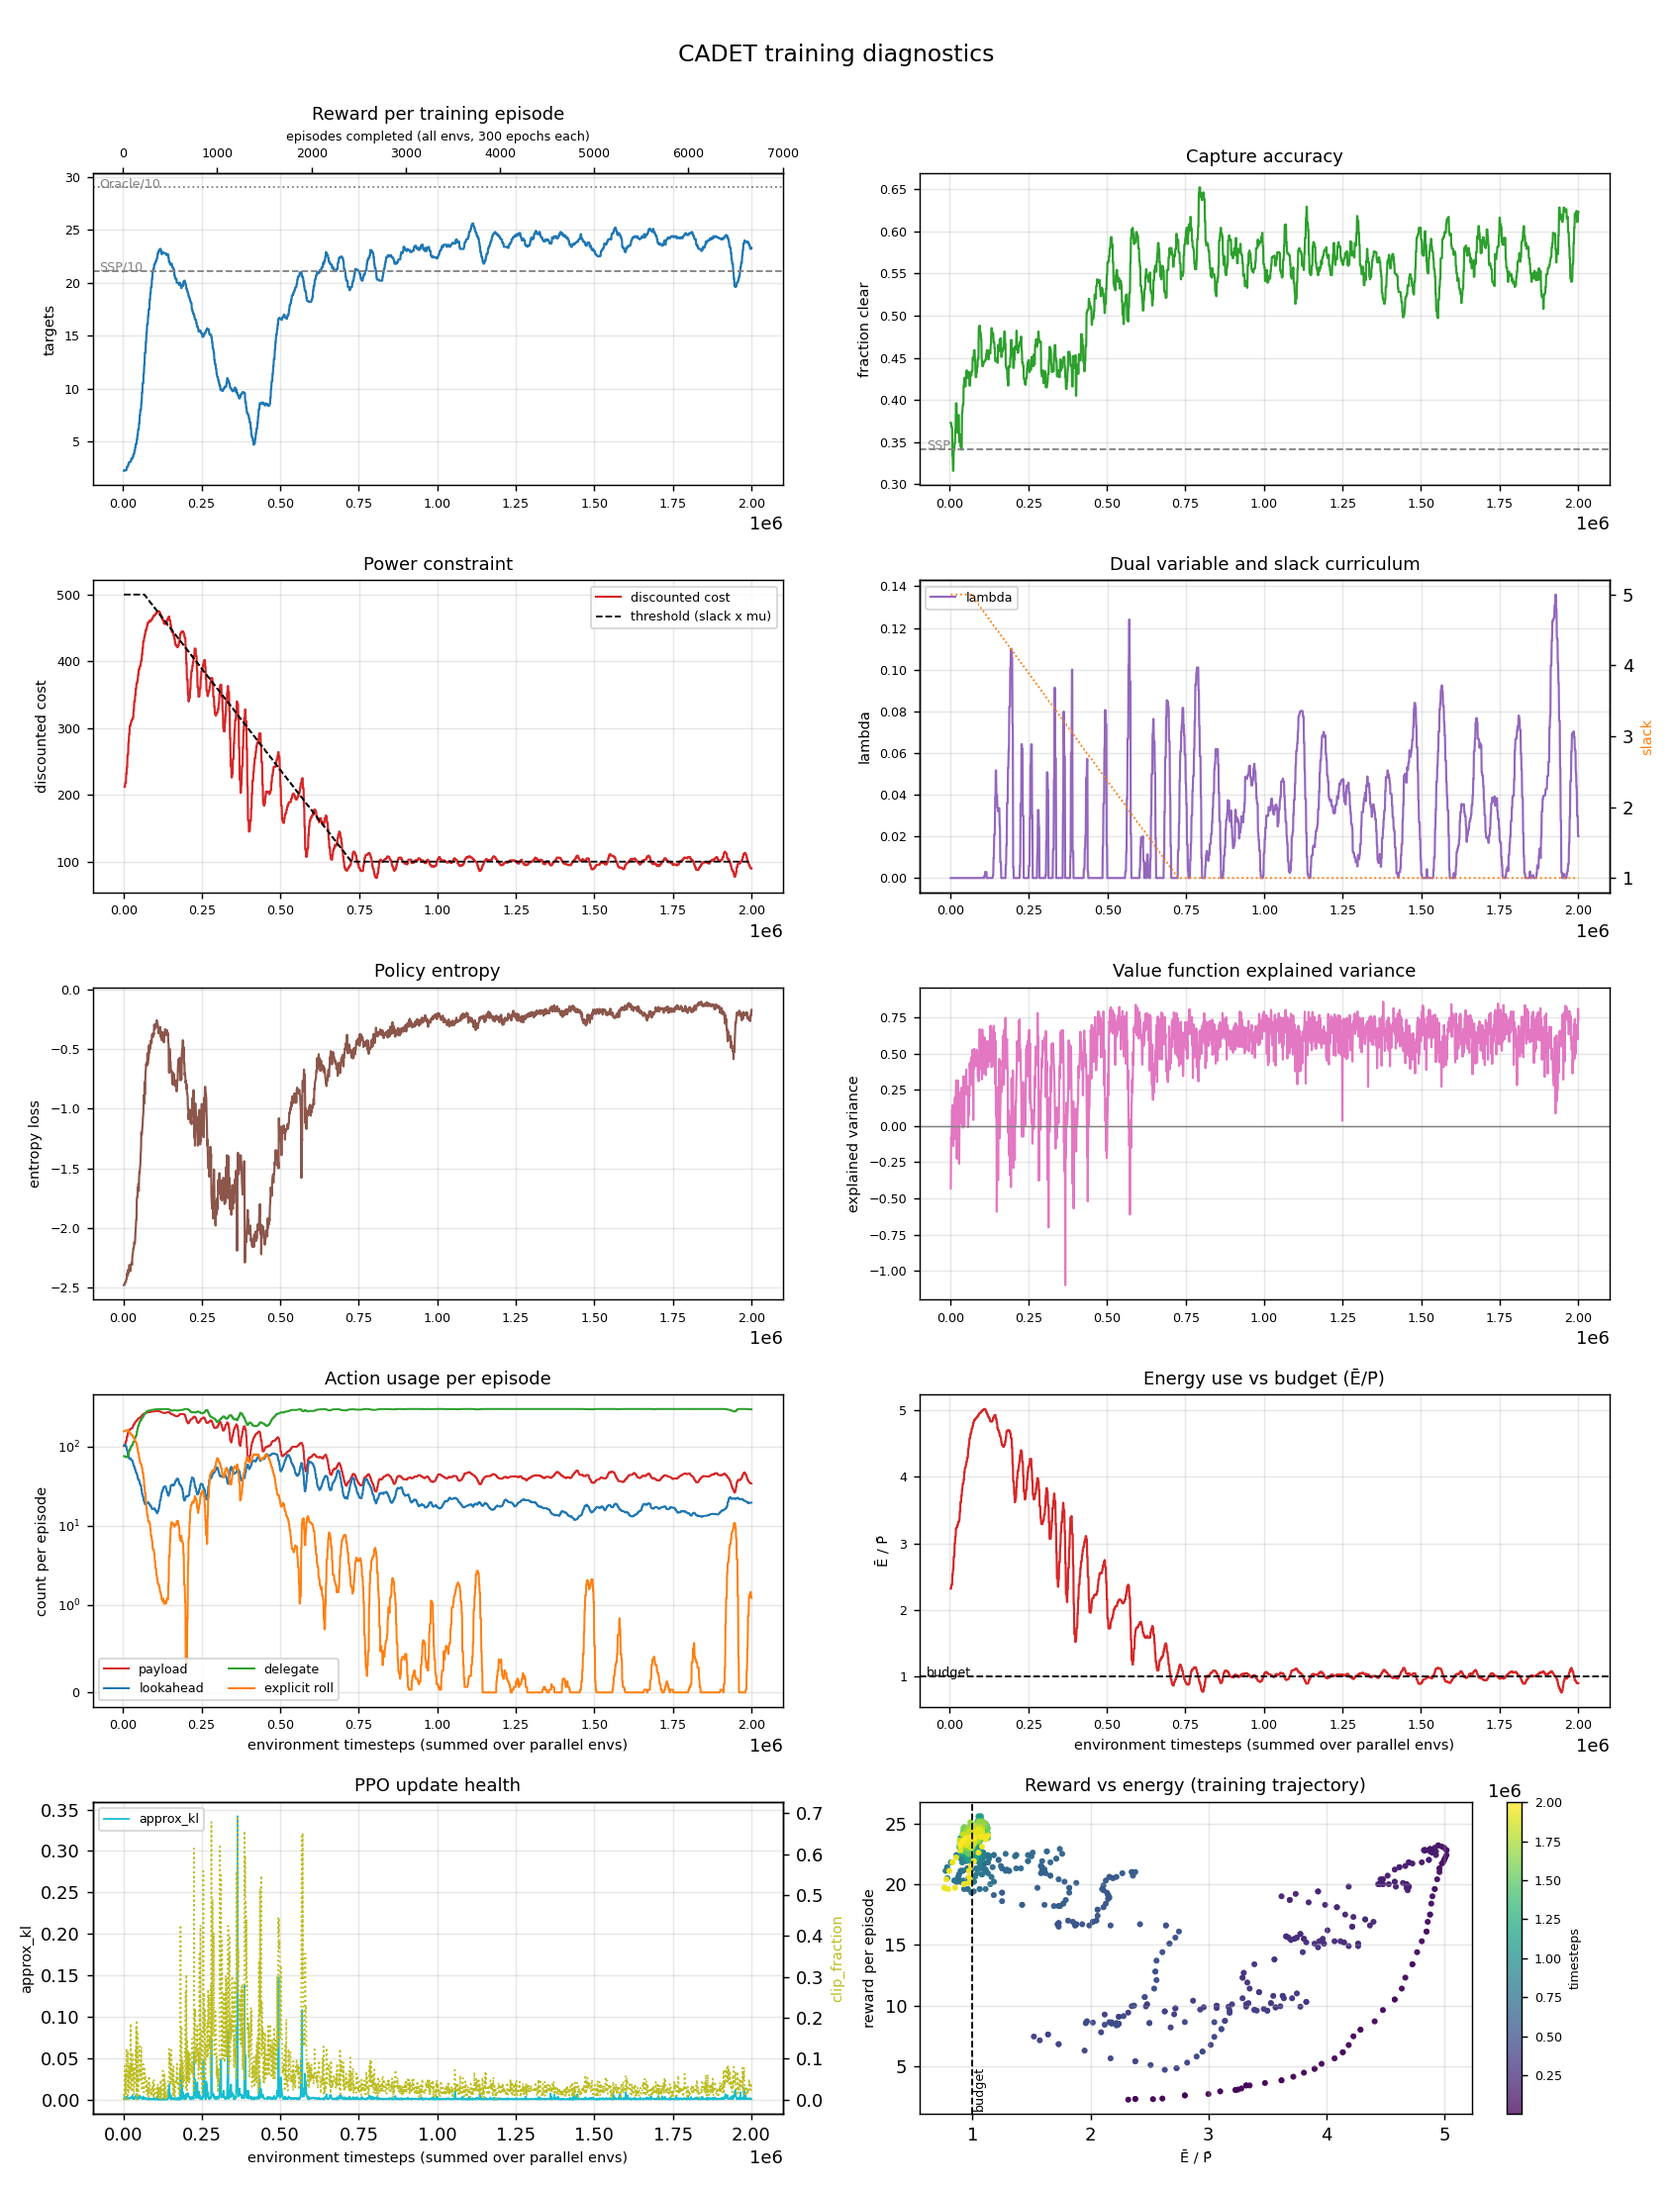
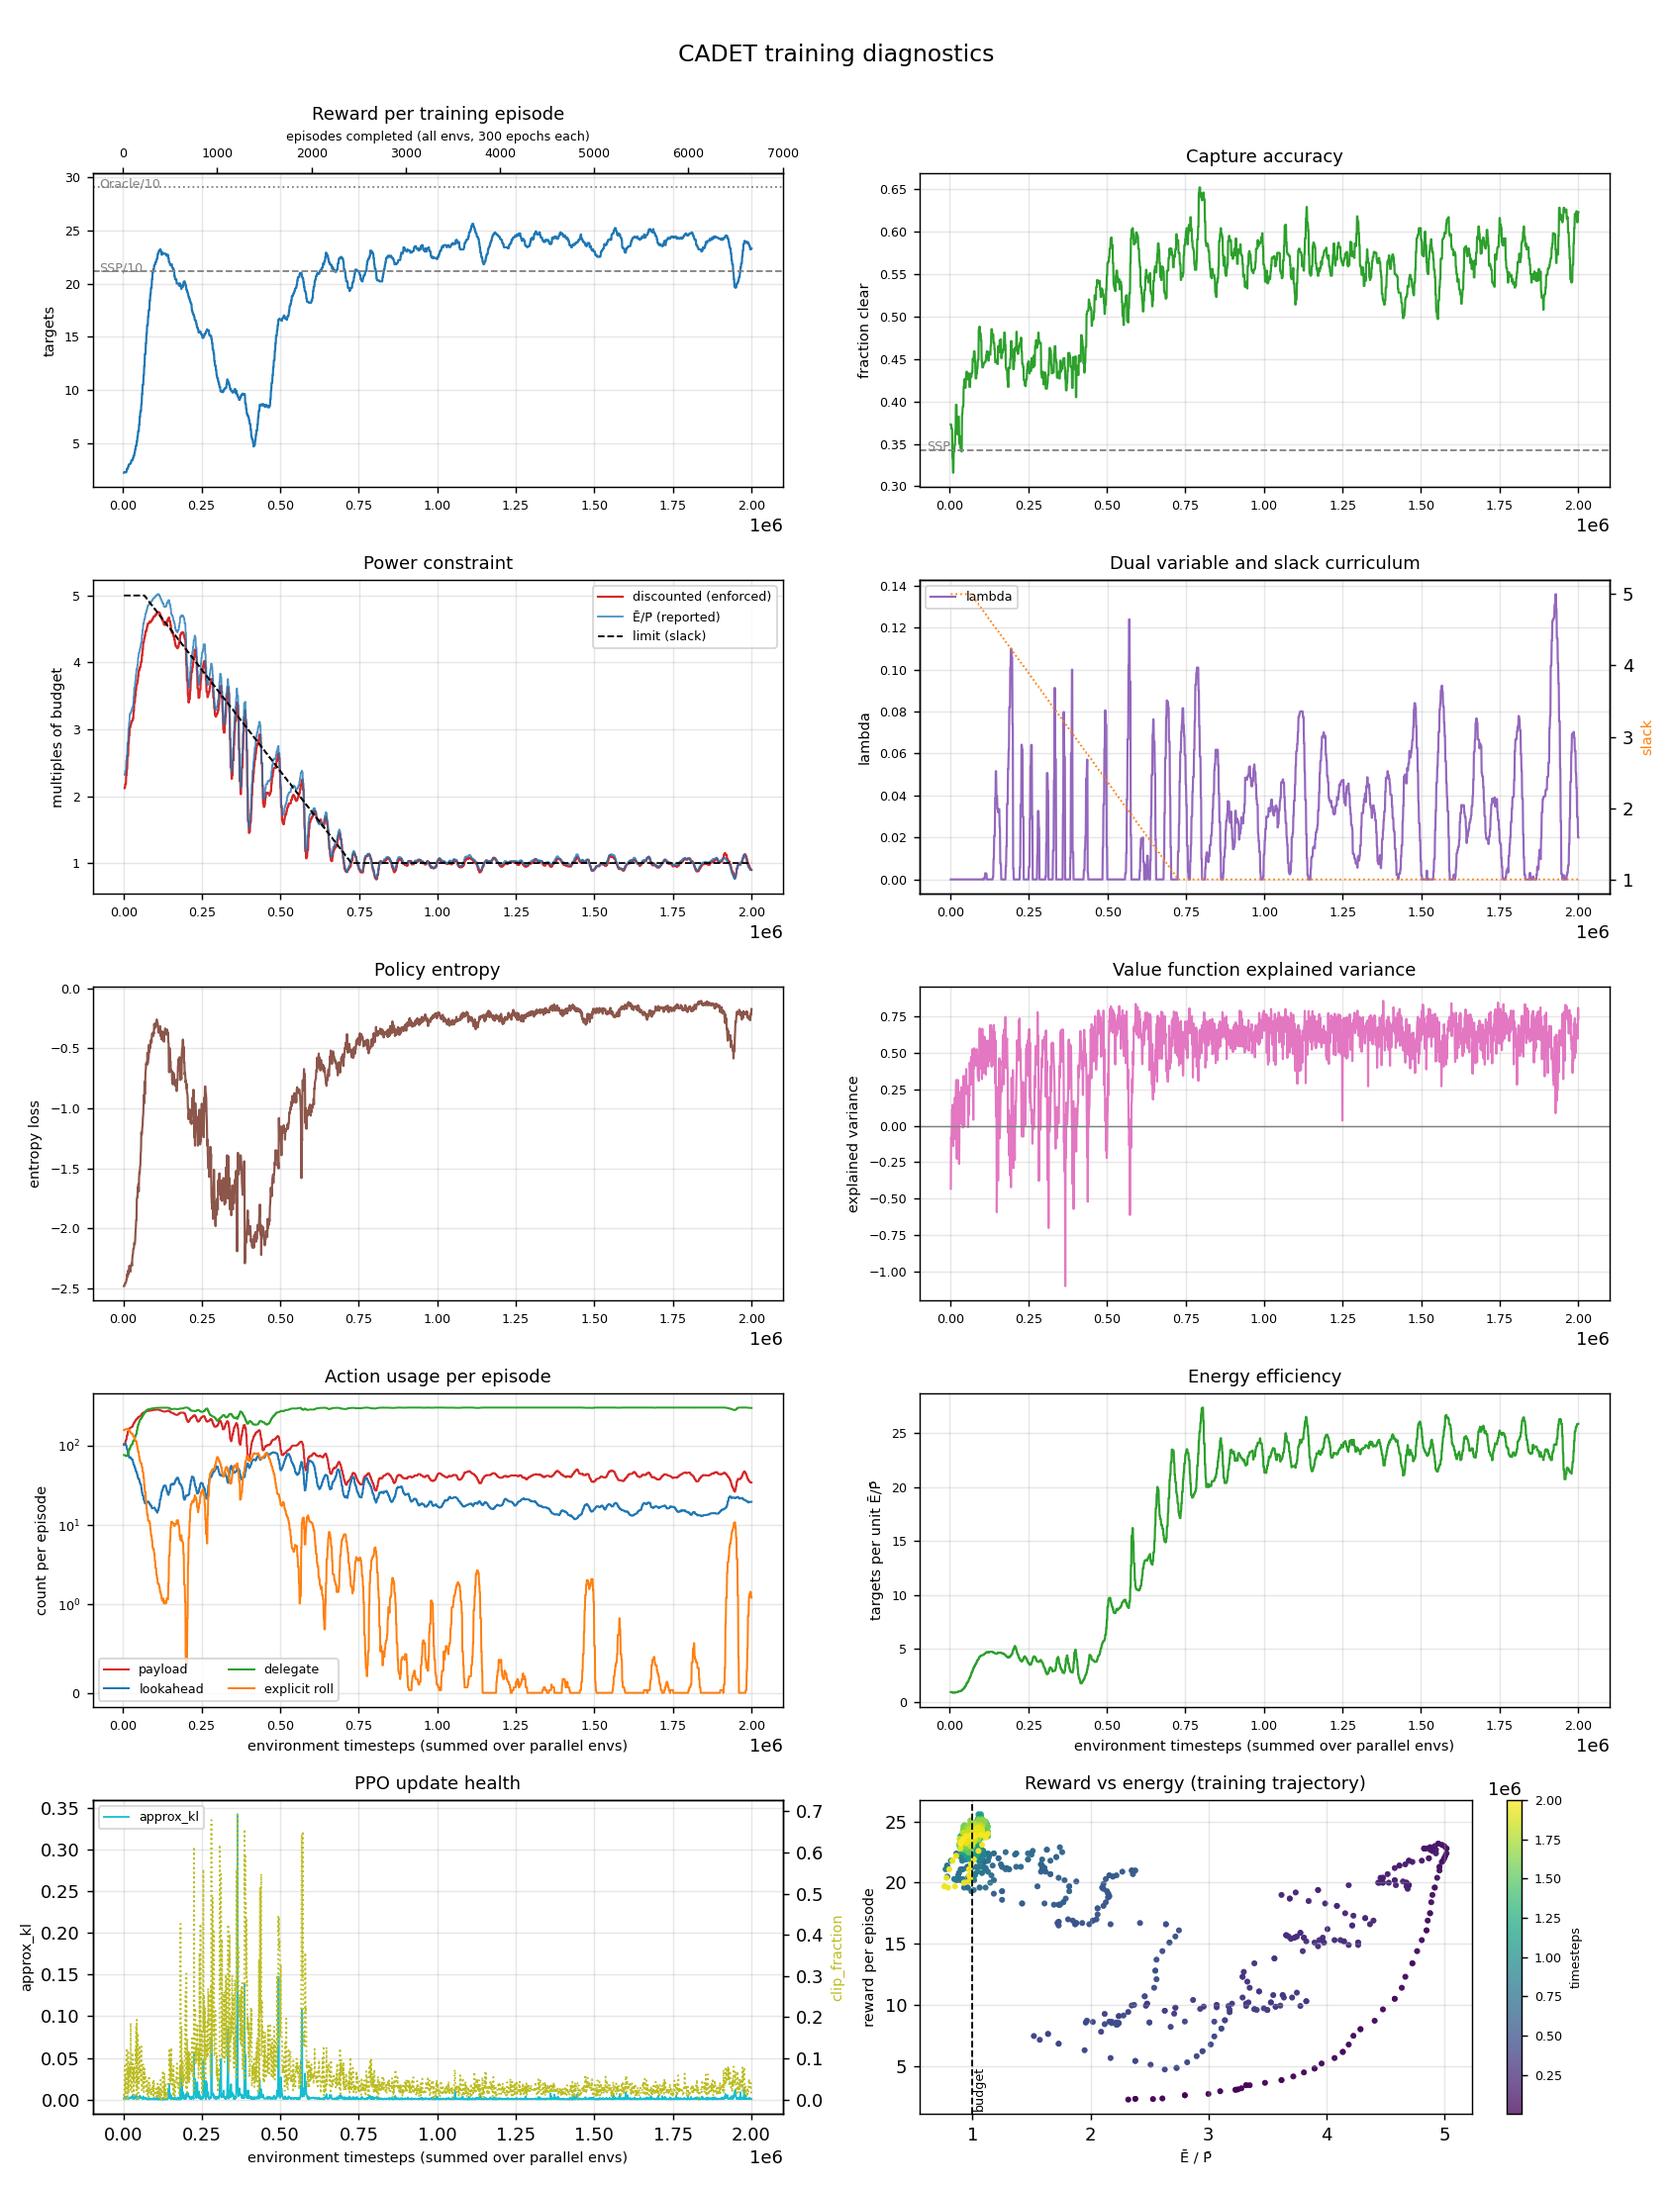
Merge the duplicate power panels; plot energy efficiency instead
The 'Power constraint' and 'Energy use vs budget' panels were near-identical:
discounted_cost/mu and normalised_power correlate at 0.9995 with a mean
relative difference of 3%. Merged into one panel that plots both in multiples
of the budget alongside the moving limit, so the near-overlap is visible as a
fact rather than implied to be two separate constraints.

The freed slot now shows targets won per unit budget-normalised energy, which
is not redundant with anything: it holds flat (3.52 -> 3.63) through the window
where reward collapses 80%, then rises ~6x once the constraint settles, ending
26x above its start. The policy was never getting worse during the squeeze - it
was being pushed down the power axis at roughly constant efficiency. Reward
alone makes that look like a failure.

diff --git a/scripts/plot_training.py b/scripts/plot_training.py
@@ -131,16 +131,25 @@ def make_figure(recs: list[dict[str, float]], out: Path, refs: dict[str, float])
         color="grey",
     )
 
-    # 3. The constraint: discounted cost against its moving threshold.
+    # 3. The constraint, with both quantities in the same units (multiples of
+    # the budget) so they are directly comparable. discounted_cost/mu is what
+    # the dual actually enforces; normalised_power is the undiscounted episode
+    # mean the paper reports (Table 1 gives Ee/P). They correlate at 0.9995
+    # here -- plotting them together shows that, rather than implying two
+    # separate constraints, and their gap reveals when spending is front- or
+    # back-loaded within an episode.
     ax = axes[1][0]
     x, y = series(recs, "discounted_cost")
     if x:
-        ax.plot(x, y, color="C3", lw=1.2, label="discounted cost")
+        ax.plot(x, [v / 100.0 for v in y], color="C3", lw=1.2, label="discounted (enforced)")
+    xn, yn = series(recs, "normalised_power")
+    if xn:
+        ax.plot(xn, yn, color="C0", lw=1.0, alpha=0.8, label="Ē/P̄ (reported)")
     xt, yt = series(recs, "threshold")
     if xt:
-        ax.plot(xt, yt, color="k", ls="--", lw=1, label="threshold (slack x mu)")
+        ax.plot(xt, [v / 100.0 for v in yt], color="k", ls="--", lw=1, label="limit (slack)")
     ax.set_title("Power constraint", fontsize=10)
-    ax.set_ylabel("discounted cost", fontsize=8)
+    ax.set_ylabel("multiples of budget", fontsize=8)
     ax.legend(fontsize=7)
     ax.grid(alpha=0.3)
 
@@ -189,15 +198,22 @@ def make_figure(recs: list[dict[str, float]], out: Path, refs: dict[str, float])
     ax.legend(fontsize=7, ncol=2)
     ax.grid(alpha=0.3)
 
-    # 8. Budget compliance in the units the paper reports (Table 1 gives E/P).
+    # 8. Efficiency: targets won per unit of budget-normalised energy. This is
+    # the learning signal the reward curve hides -- during the reward collapse
+    # efficiency holds flat (3.52 -> 3.63) because the policy is being pushed
+    # down the power axis, not getting worse. It then rises ~6x once the
+    # constraint settles. Monotone progress where reward looks catastrophic.
     ax = axes[3][1]
-    x, y = series(recs, "normalised_power")
-    if x:
-        ax.plot(x, y, color="C3", lw=1.2)
-    ax.axhline(1.0, ls="--", color="k", lw=1)
-    ax.annotate("budget", (0.01, 1.0), xycoords=("axes fraction", "data"), fontsize=7)
-    ax.set_title("Energy use vs budget (Ē/P̄)", fontsize=10)
-    ax.set_ylabel("Ē / P̄", fontsize=8)
+    eff = [
+        (r["total_timesteps"], r["ep_rew_mean"] / r["normalised_power"])
+        for r in recs
+        if r.get("ep_rew_mean") and r.get("normalised_power")
+    ]
+    if eff:
+        ex, ey = zip(*eff, strict=True)
+        ax.plot(ex, ey, color="C2", lw=1.2)
+    ax.set_title("Energy efficiency", fontsize=10)
+    ax.set_ylabel("targets per unit Ē/P̄", fontsize=8)
     ax.grid(alpha=0.3)
 
     # 9. PPO update health. approx_kl spiking means steps are too aggressive;

diff --git a/docs/runs/2026-08-28-cadet-plan-n32-P150.md b/docs/runs/2026-08-28-cadet-plan-n32-P150.md
@@ -144,6 +144,25 @@ not just a correlation: the moving threshold changes the augmented reward faster
 trust region is sized to absorb, so each update fights the last. It is direct evidence that
 the taper rate, rather than the constraint itself, causes the collapse.
 
+### Efficiency rises monotonically even while reward collapses
+
+Reward is a misleading progress signal here, because it says nothing about what the policy
+paid. Targets won per unit of budget-normalised energy tells a different story:
+
+| window | mean efficiency |
+|---|---|
+| pre-taper | 3.52 |
+| **during the reward collapse** | **3.63** |
+| post-taper | 23.31 |
+
+Efficiency is *flat* through the window where reward falls 80%. The policy was not getting
+worse during the squeeze — it was being pushed down the power axis while holding its
+targets-per-joule roughly constant. It then improves ~6× once the constraint stops moving,
+ending 26× above where it started.
+
+If a single curve had to summarise learning progress in a constrained problem like this,
+it should be this one rather than reward.
+
 ### Delegation is learned early, and not because of the budget
 
 `n_delegate` reaches 295/300 by **99k** timesteps and explicit rolls fall below 1 by **200k**
